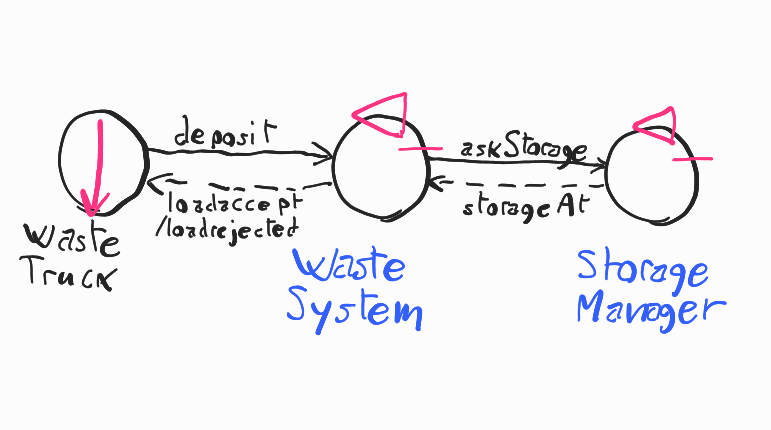
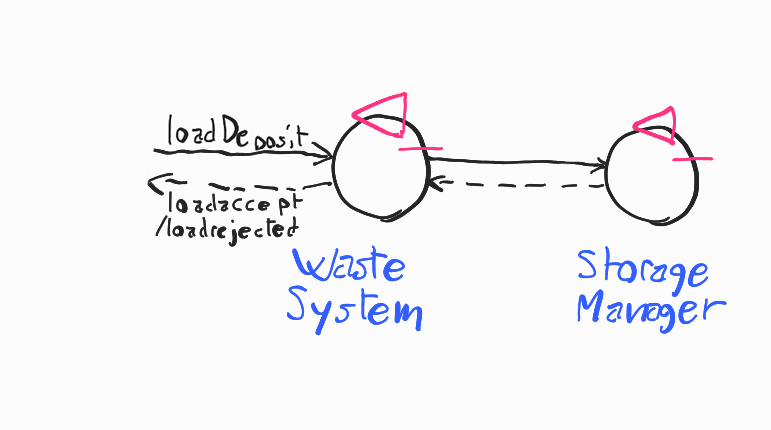
immagini doc

diff --git a/analisi_problema.md b/analisi_problema.md
@@ -147,7 +147,7 @@ Inoltre, WasteService deve poter sapere da StorageManager lo stato attuale di ri
 
 **Conclusione.** Per adempiere a questo requisito si è ritenuta migliore la prima opzione, **request-reply**; nel secondo caso, WasteService dovrebbe salvare in una variabile interna di stato il dato aggiornato ogni volta che lo riceve, cosa che potrebbe avvenire in qualunque momento, invece di chiederlo semplicemente all'occorrenza.
 
-TODO: immagine modello
+![modello request](doc/img/an_int_request.png)
 
 TODO: modello eseguibile
 
@@ -184,7 +184,7 @@ TODO: test plan dati veri vs dati messaggi
 
 Il modello per le componenti correlate a deposit è il seguente:
 
-TODO: immagine modello
+![modello request](doc/img/an_int_deposit.png)
 
 TODO: modello eseguibile
 
@@ -193,11 +193,9 @@ TODO: modello eseguibile
 
 Ecco quindi l'architettura logica del sistema in generale per questo SPRINT:
 
-TODO: immagine architettura logica
+![modello architettura logica](doc/img/arch_logica.png)
 
-TODO: immagine stati Trolley
-
-TODO: immagine stati WasteService
+![diagramma stati WasteService](doc/img/arch_fsm_wasteservice.png)
 
 TODO: modello eseguibile architettura logica
 

diff --git a/requisiti.md b/requisiti.md
@@ -76,6 +76,8 @@ Reply loadaccept : loadaccept()
 Reply loadrejected : loadrejected()
 ```
 
+![schema request](doc/img/req_request.png)
+
 Il WasteService deve di conseguenza essere un attore, in grado di ricevere richieste e inviare risposte, e anche inviare messaggi a sua volta alle altre componenti del sistema.
 
 ```
